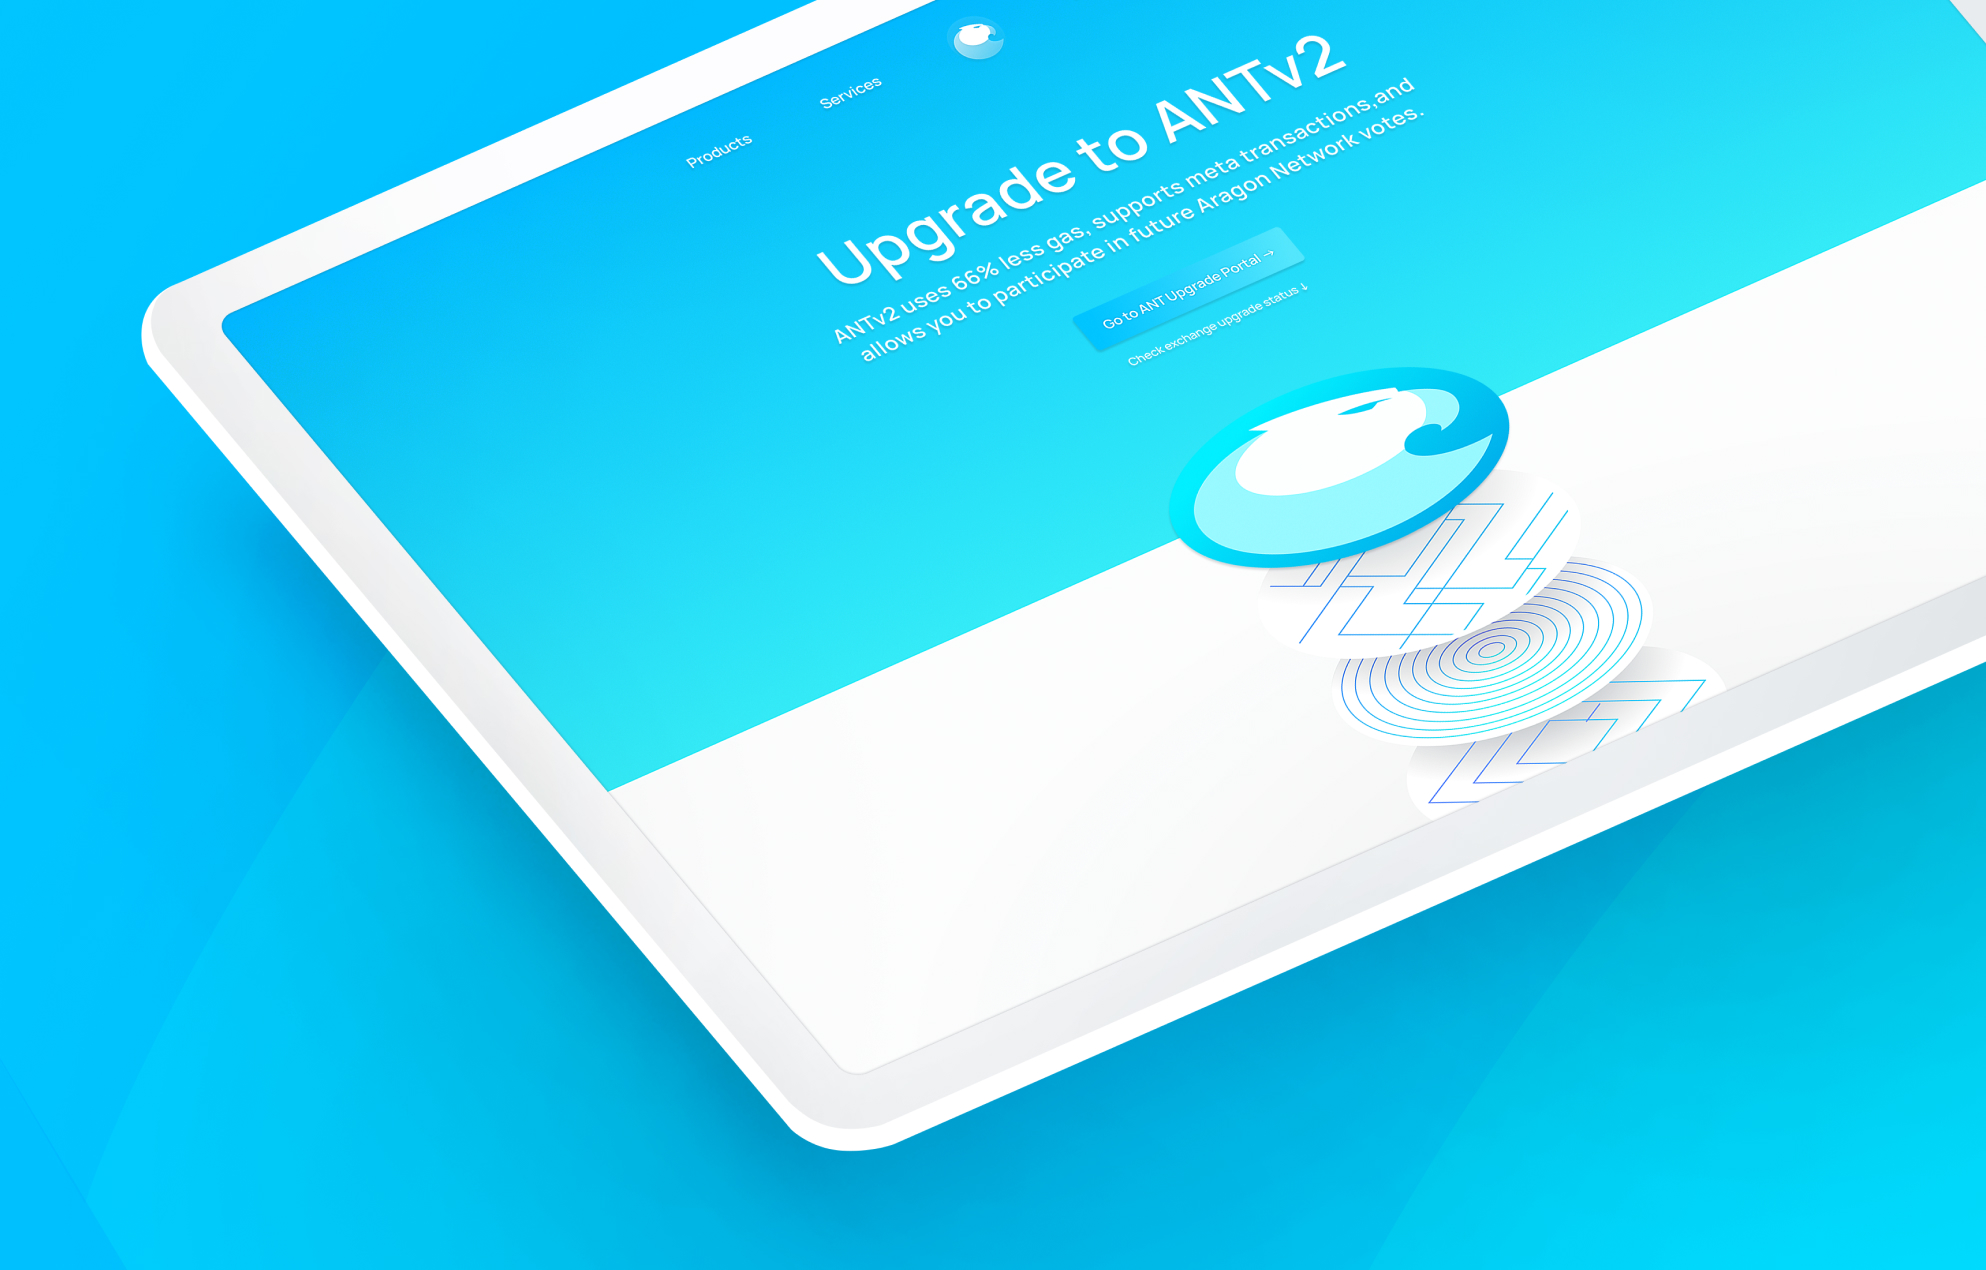
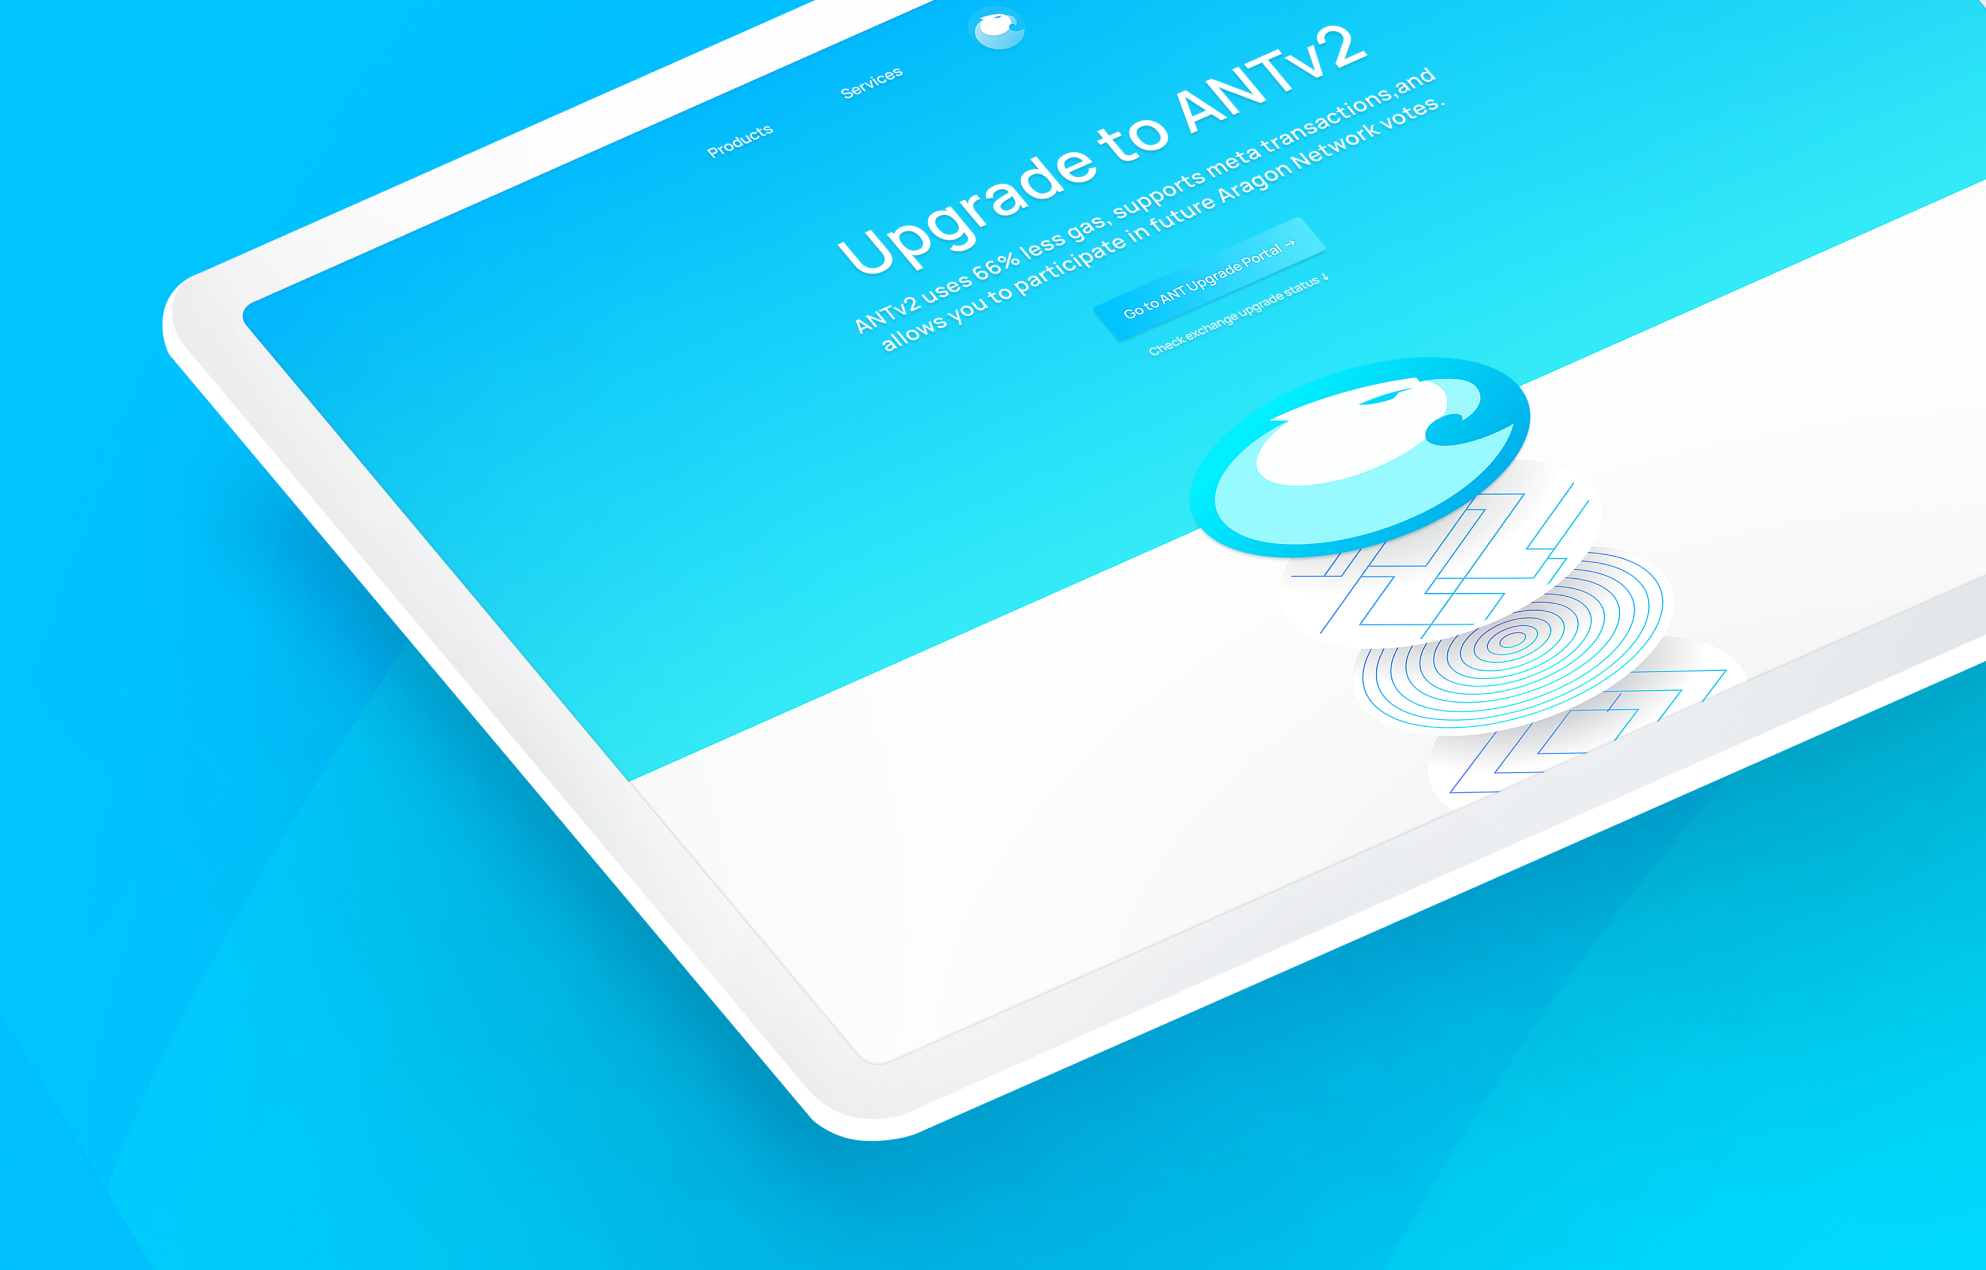
Fix image crops

diff --git a/app/(projects)/_components/image-group-section.tsx b/app/(projects)/_components/image-group-section.tsx
@@ -81,7 +81,7 @@ export const ImageGroupSection = React.forwardRef<ImageGroupSectionElement, Imag
                           className="absolute -left-full bottom-0 -right-full"
                           solid
                         />
-                        <div className="rounded-xl overflow-hidden shadow-xl relative">
+                        <div className="rounded lg:rounded-xl overflow-hidden shadow-xl relative">
                           <RouterImage
                             image={image}
                             className="w-full"

diff --git a/app/(projects)/_components/image-section.tsx b/app/(projects)/_components/image-section.tsx
@@ -34,7 +34,7 @@ export const ImageSection = React.forwardRef<ImageSectionElement, ImageSectionPr
                   contrast="low"
                 />
 
-                <div className="rounded-3xl overflow-hidden relative">
+                <div className="rounded-xl lg:rounded-3xl overflow-hidden relative">
                   <RouterImage image={image} className="w-full" quality={90} sizes="100vw" />
                 </div>
               </div>

diff --git a/app/(projects)/_components/project.tsx b/app/(projects)/_components/project.tsx
@@ -277,7 +277,7 @@ const ProjectHero = React.forwardRef<ProjectHeroElement, ProjectHeroProps>(
         {heroImage && (
           <Gutter size="small">
             <div className="mx-auto relative z-10">
-              <div className="rounded-3xl overflow-hidden shadow-slate-1 shadow-2xl">
+              <div className="rounded-xl lg:rounded-3xl overflow-hidden shadow-slate-1 shadow-2xl">
                 <RouterImage
                   image={heroImage}
                   quality={90}